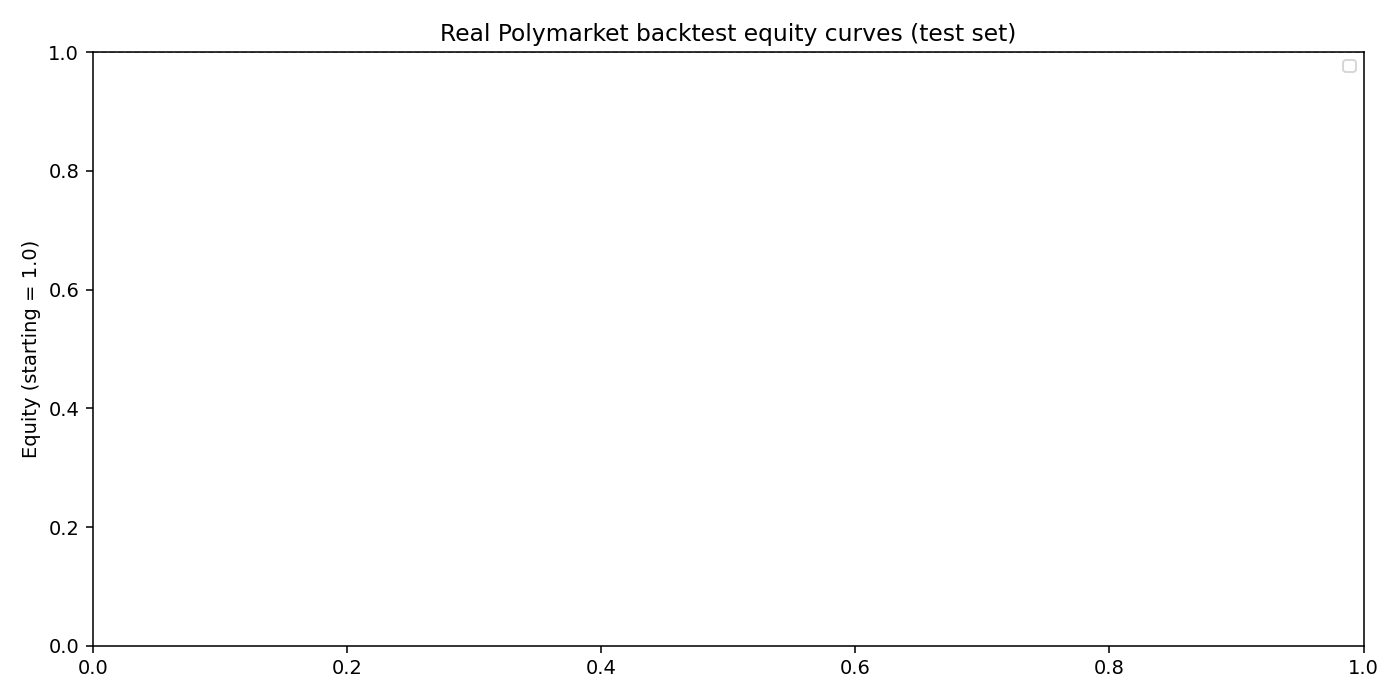
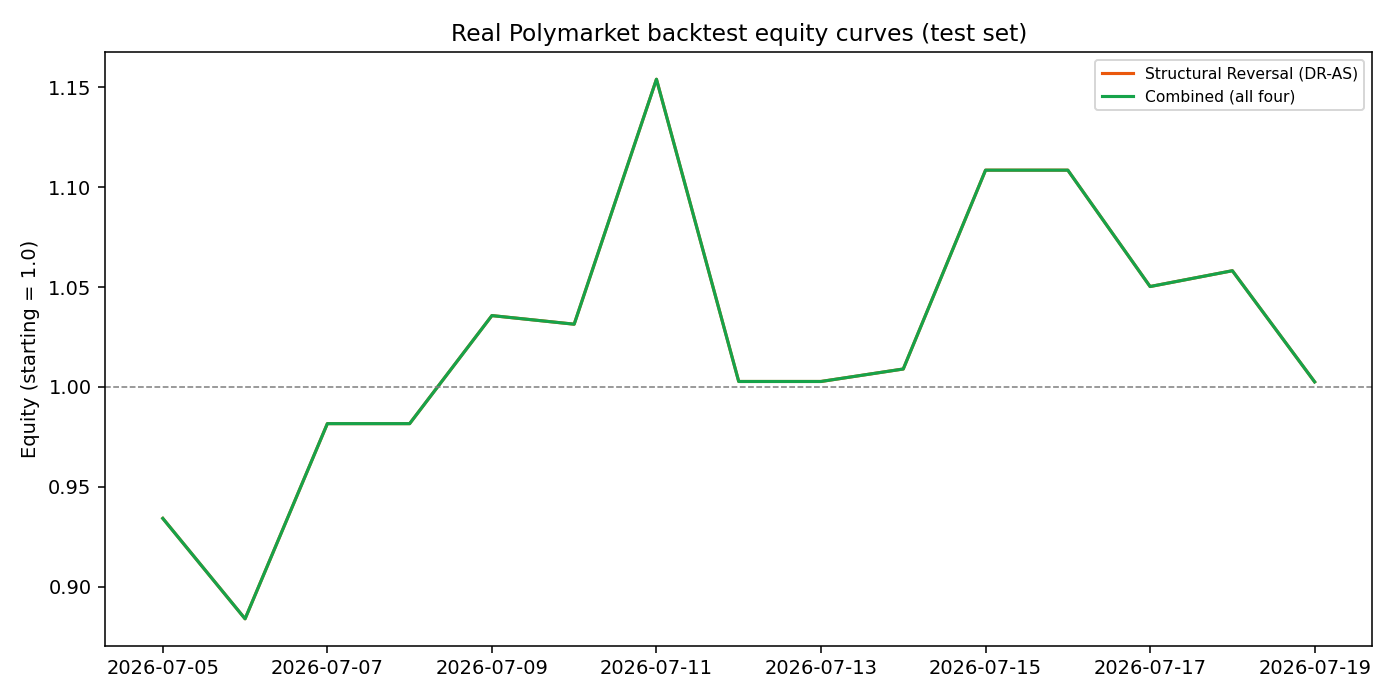
tested reversal and momemtum hypotheses. achieved a net sharpe of about 0.6, almost insignificant. Will try a new hypothesis

diff --git a/pred_market/data_fetcher.py b/pred_market/data_fetcher.py
@@ -47,10 +47,37 @@ from config import GAMMA_MARKETS_ENDPOINT, CLOB_PRICE_HISTORY_ENDPOINT
 # ===========================================================================
 # PATH 1 (preferred): official polymarket-client SDK
 # ===========================================================================
+def _resolve_category(m) -> str:
+    """
+    m.category is a genuinely optional field (str | None, confirmed via
+    direct model introspection) that Polymarket's API frequently leaves
+    empty -- confirmed necessary after a real fetch came back with every
+    single market categorized as "other". The real categorization lives in
+    m.tags (a list of MarketTag(id, slug, label) objects) instead. This
+    scans tag labels/slugs for a match against the known fee-schedule
+    categories (see config.FEE_RATE_BY_CATEGORY) before giving up.
+
+    Falling back to "other" incorrectly isn't just a labeling nuisance --
+    it directly mis-prices every affected trade's fees (a crypto market
+    silently charged the "other" rate instead of crypto's, for example),
+    so this matters for backtest accuracy, not just readability.
+    """
+    if m.category:
+        return m.category.lower()
+    known_categories = {"crypto", "sports", "finance", "politics", "mentions",
+                        "tech", "economics", "culture", "weather", "geopolitics"}
+    for tag in getattr(m, "tags", ()) or ():
+        for candidate in (getattr(tag, "label", None), getattr(tag, "slug", None)):
+            if candidate and candidate.lower() in known_categories:
+                return candidate.lower()
+    return "other"
+
+
 def build_market_panel(min_volume: float = 50_000, max_markets: int = 300,
                         fidelity_minutes: int = 60, interval: str = "max",
                         checkpoint_path: str | None = "data/_fetch_checkpoint.parquet",
-                        checkpoint_every: int = 50, max_retries: int = 3) -> pd.DataFrame:
+                        checkpoint_every: int = 50, max_retries: int = 3,
+                        tag_slug: str | None = None) -> pd.DataFrame:
     """
     Pull resolved markets + full price history using the official SDK.
     Confirmed-real signatures (verified 2026 against polymarket-client==0.1.0b20),
@@ -100,6 +127,26 @@ def build_market_panel(min_volume: float = 50_000, max_markets: int = 300,
         return PublicClient()
 
     client = _new_client()
+
+    # Server-side category filtering: look up the real tag_id at runtime via
+    # get_tag(slug=...) rather than hardcoding a guessed numeric ID, which
+    # is more robust and self-corrects if Polymarket ever changes tag IDs.
+    # This is meaningfully better than fetching broadly and filtering
+    # client-side afterward -- your whole max_markets budget goes toward
+    # the category you actually want, instead of being diluted across every
+    # category and then thrown away.
+    resolved_tag_id = None
+    if tag_slug is not None:
+        try:
+            tag = client.get_tag(slug=tag_slug)
+            resolved_tag_id = int(tag.id)
+            print(f"      Resolved tag_slug='{tag_slug}' -> tag_id={resolved_tag_id} "
+                  f"(label='{tag.label}')")
+        except Exception as e:
+            print(f"      !! Could not resolve tag_slug='{tag_slug}' ({type(e).__name__}: {e}) -- "
+                  f"proceeding WITHOUT a category filter. Check the slug is correct "
+                  f"(try client.list_tags() to see available slugs) before trusting this run's category label.")
+
     count = len(already_fetched_ids)
     scanned = 0
     since_checkpoint = 0
@@ -110,6 +157,7 @@ def build_market_panel(min_volume: float = 50_000, max_markets: int = 300,
             order="volume",
             ascending=False,
             page_size=100,
+            **({"tag_id": resolved_tag_id} if resolved_tag_id is not None else {}),
         )
         for m in paginator.iter_items():
             if count >= max_markets:
@@ -153,7 +201,7 @@ def build_market_panel(min_volume: float = 50_000, max_markets: int = 300,
             hist = hist.sort_values("timestamp").reset_index(drop=True)
 
             hist["market_id"] = m.id
-            hist["category"] = (m.category or "other").lower()
+            hist["category"] = tag_slug.lower() if tag_slug else _resolve_category(m)
             hist["volume"] = float(m.metrics.volume) if m.metrics and m.metrics.volume is not None else 0.0
 
             end_date = m.state.end_date if m.state else None
@@ -199,10 +247,6 @@ def build_market_panel(min_volume: float = 50_000, max_markets: int = 300,
     if checkpoint_path:
         result.to_parquet(checkpoint_path, index=False)
     return result
-
-    if not frames:
-        return pd.DataFrame()
-    return pd.concat(frames, ignore_index=True)
 
 
 # ===========================================================================

diff --git a/pred_market/run_demo.py b/pred_market/run_demo.py
@@ -59,21 +59,21 @@ def print_metrics(name: str, m: dict):
 def main():
     banner()
 
-    print("\n[1/4] Fetching real resolved Polymarket markets...")
-    # build_market_panel() now has its own built-in checkpointing/resume
-    # logic (checkpoint_path below) -- it saves progress every
-    # checkpoint_every markets, and on a fresh call, skips any market_id
-    # already present in that file. This subsumes the separate cache-check
-    # wrapper that used to live here: if CACHE_PATH already has everything
-    # you asked for, the resume logic sees that on its very first iteration
-    # and returns almost instantly; if it's a full fresh start, there's
-    # nothing to skip and it behaves like a normal fetch; if a previous run
-    # crashed partway through (this is what motivated adding this at all --
-    # a real ConnectionTerminated error lost 43 minutes of progress at
-    # 1300/1500 markets with no checkpointing), it picks up from wherever
-    # it stopped instead of starting over.
-    CACHE_PATH = "data/real_panel_cache.parquet"
-    panel = build_market_panel(min_volume=10_000, max_markets=1350,
+    print("\n[1/4] Fetching real resolved Polymarket sports markets...")
+    # tag_slug="sports" filters SERVER-SIDE via list_markets(tag_id=...) --
+    # the real tag_id is looked up at runtime via get_tag(slug="sports")
+    # rather than hardcoded, so this self-corrects if Polymarket ever
+    # changes tag IDs. This is meaningfully better than fetching broadly
+    # and filtering client-side afterward: the whole max_markets budget now
+    # goes toward sports specifically, instead of being diluted across
+    # every category and mostly thrown away (sports was previously getting
+    # maybe 40% of a pooled fetch; now it gets 100%).
+    #
+    # Separate cache file from the pooled fetch on purpose -- don't want a
+    # sports-only run to silently overwrite the full multi-category dataset
+    # you already fetched, in case you want both.
+    CACHE_PATH = "data/real_panel_cache_sports.parquet"
+    panel = build_market_panel(min_volume=10_000, max_markets=1500, tag_slug="sports",
                                 checkpoint_path=CACHE_PATH, checkpoint_every=50, max_retries=5)
     if panel.empty:
         print("      Got 0 markets/rows back. Stopping here -- fix the fetch before")
@@ -93,8 +93,7 @@ def main():
     # module docstring at the top of this file.
     panel, fitted_K = add_structural_signals(
         panel, train_market_ids=set(train_df_for_fit["market_id"]),
-        struct_mom_lookback=5, struct_rev_lookback=10, spread_col="spread"
-    )
+        struct_mom_lookback=5, struct_rev_lookback=10, spread_col="spread")
     print(f"      Fitted AS-channel scale K = {fitted_K:.4f} "
           f"(expected 0.0 here -- no spread column from Path 2, so this is DR-only)")
 
@@ -122,7 +121,7 @@ def main():
     print_metrics("REVERSAL strategy (naive rolling z-score)", rev_metrics)
     print_metrics("STRUCTURAL MOMENTUM (DR-AS vol-normalized)", smom_metrics)
     print_metrics("STRUCTURAL REVERSAL (DR-AS vol-normalized)", srev_metrics)
-    print_metrics("COMBINED portfolio (all six)", combined_metrics)
+    print_metrics("COMBINED portfolio (all four)", combined_metrics)
 
     print("\n--- Train-set calibration tables (frozen before touching test set) ---")
     for name, calib in [("momentum", mom_calib), ("reversal", rev_calib),
@@ -158,7 +157,11 @@ def main():
     ax.axhline(1.0, color="grey", linestyle="--", linewidth=0.8)
     ax.set_title("Real Polymarket backtest equity curves (test set)")
     ax.set_ylabel("Equity (starting = 1.0)")
-    ax.legend(fontsize=8)
+    if ax.get_legend_handles_labels()[0]:
+        ax.legend(fontsize=8)
+    else:
+        ax.text(0.5, 0.5, "No strategy produced any trades this run", ha="center", va="center",
+                transform=ax.transAxes, color="grey")
     fig.tight_layout()
     fig.savefig("results/equity_curves.png", dpi=140)
     written.append("results/equity_curves.png")